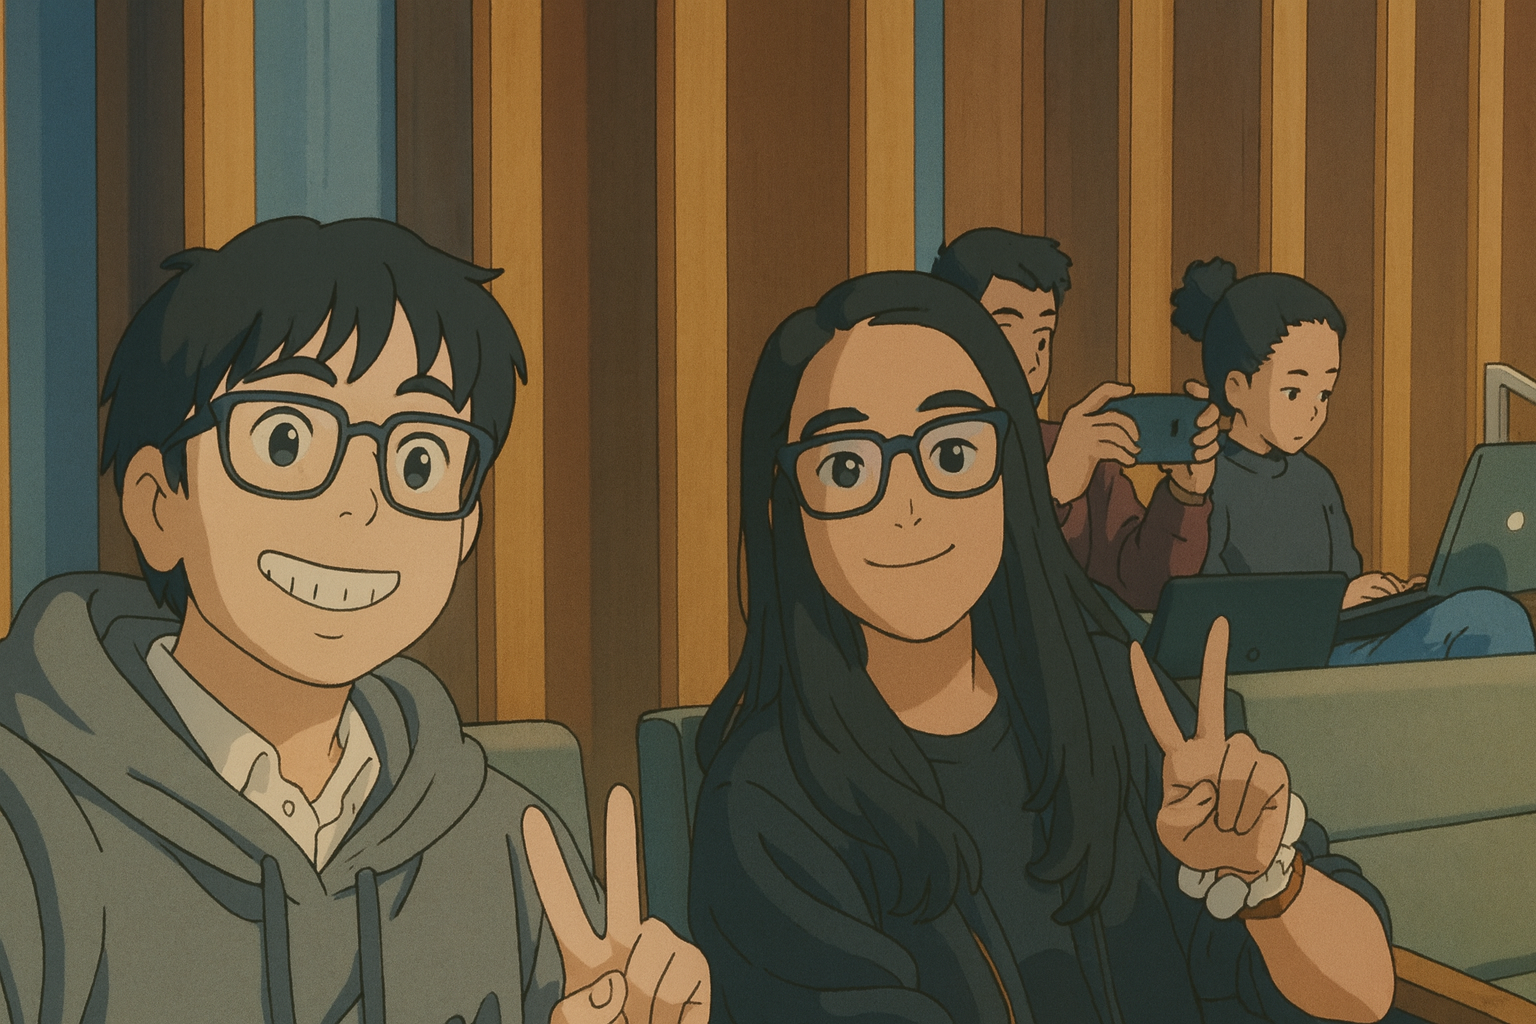
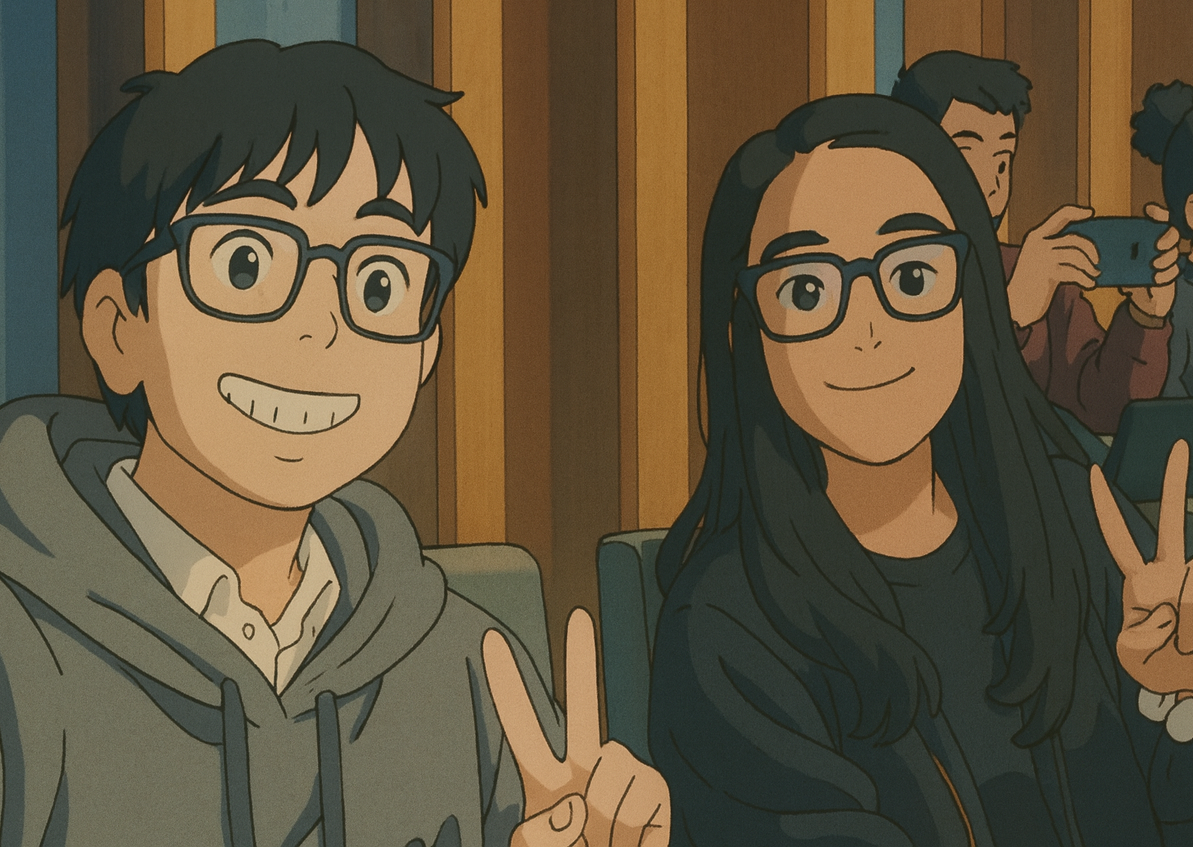
Center hero content and improve photo visibility - cropped team photo, centered all text and buttons

diff --git a/styles.css b/styles.css
@@ -129,7 +129,8 @@ body {
     width: 100%;
     height: 100%;
     object-fit: cover;
-    object-position: center;
+    object-position: 20% center;
+    transform: scale(1.2);
 }
 
 .hero-overlay {
@@ -149,6 +150,14 @@ body {
     margin: 0 auto;
     padding: 0 20px;
     width: 100%;
+    display: flex;
+    justify-content: center;
+    align-items: center;
+}
+
+.hero-content {
+    text-align: center;
+    max-width: 900px;
 }
 
 .hero-badge {
@@ -199,6 +208,8 @@ body {
     opacity: 0.9;
     line-height: 1.8;
     max-width: 800px;
+    margin-left: auto;
+    margin-right: auto;
     animation: fadeInUp 0.8s ease-out 0.6s both;
 }
 
@@ -208,6 +219,7 @@ body {
     margin-bottom: 2rem;
     flex-wrap: wrap;
     animation: fadeInUp 0.8s ease-out 0.8s both;
+    justify-content: center;
 }
 
 .mini-stat {
@@ -252,6 +264,7 @@ body {
     display: flex;
     gap: 1rem;
     animation: fadeInUp 0.8s ease-out 1s both;
+    justify-content: center;
 }
 
 .btn {
